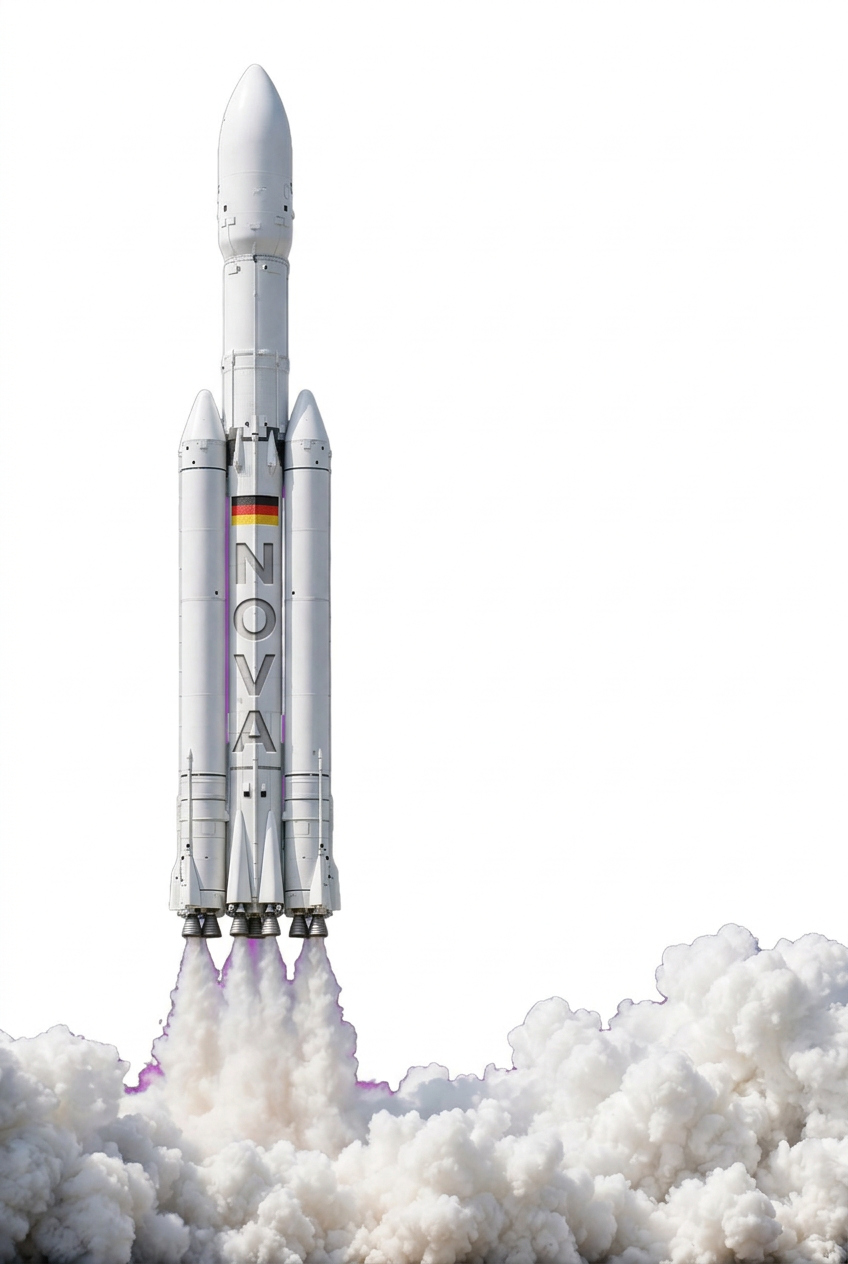
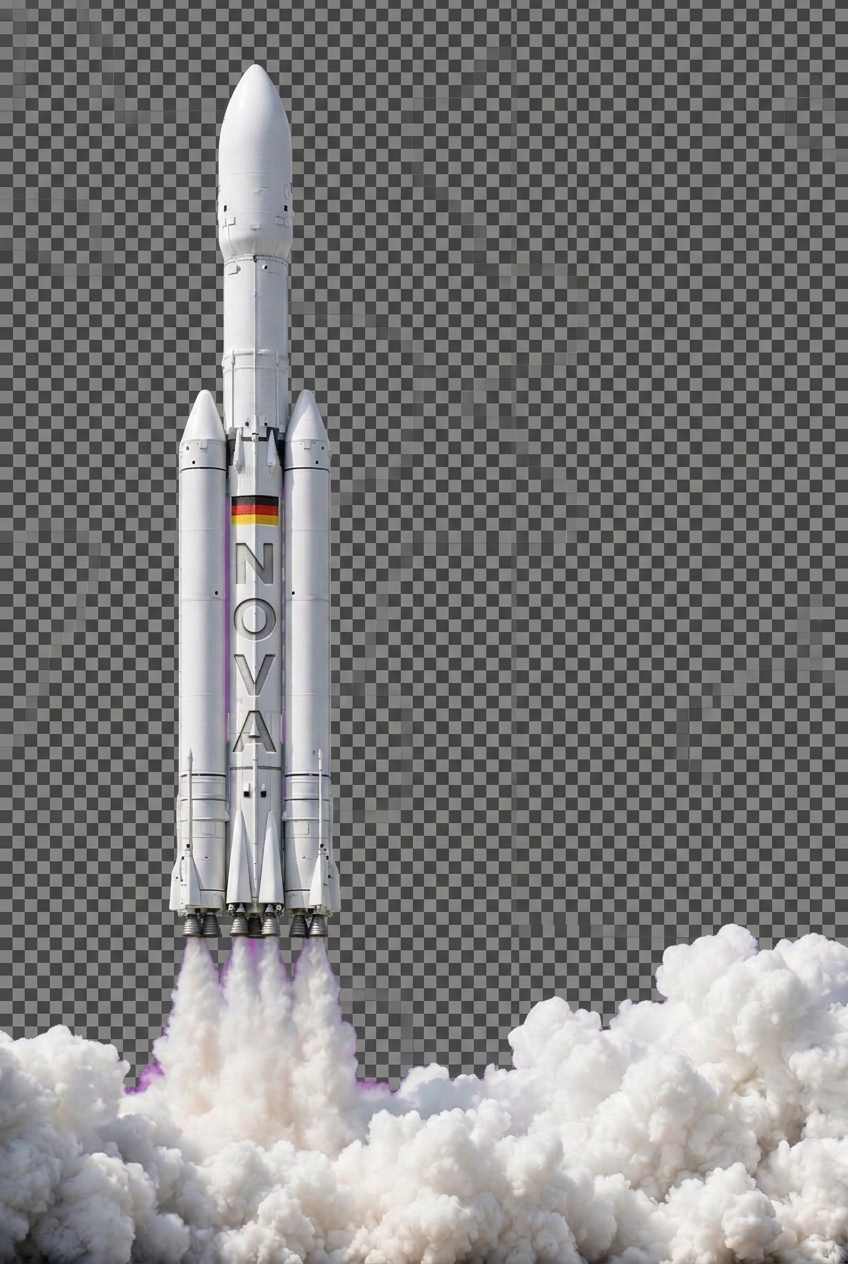
nova-v42: True transparent rocket PNG, no blend mode needed
Claude-Session: https://claude.ai/code/session_01AVNYYeaAjLedAta5eir4VY

diff --git a/sw.js b/sw.js
@@ -4,7 +4,7 @@
    Responds to SKIP_WAITING message from the page.
    ═══════════════════════════════════════════════════════ */
 
-const CACHE = 'nova-v41';
+const CACHE = 'nova-v42';
 
 const STATIC_CSS = [
   '/support-pool-/css/tokens.css',

diff --git a/css/screens/login.css b/css/screens/login.css
@@ -131,7 +131,6 @@
   object-position: top left;
   z-index: 1;
   pointer-events: none;
-  mix-blend-mode: multiply;
 }
 
 .login-card > * {
